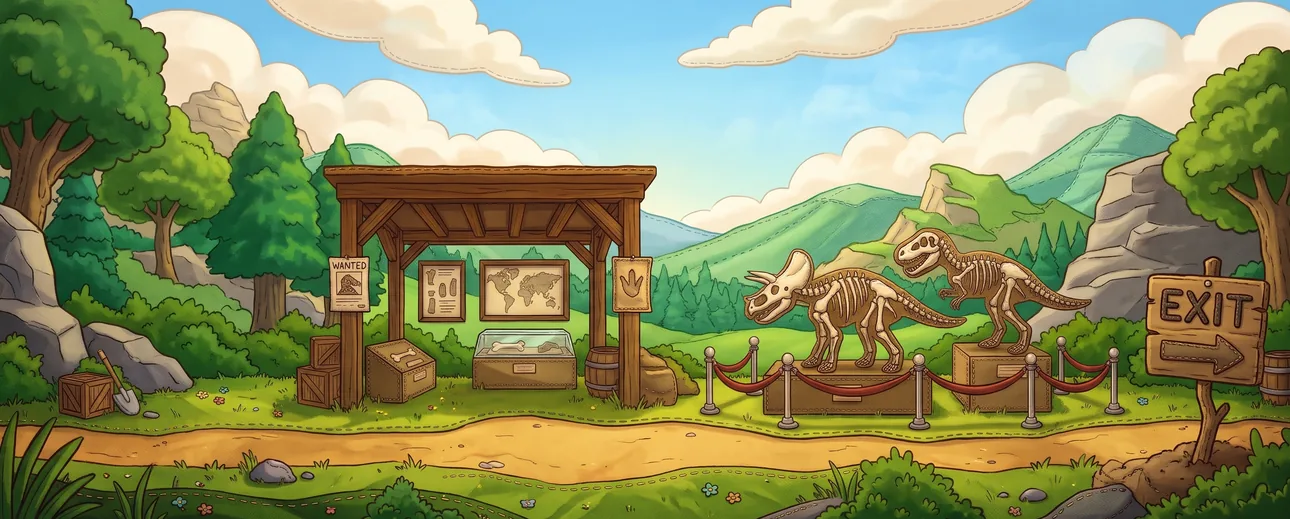
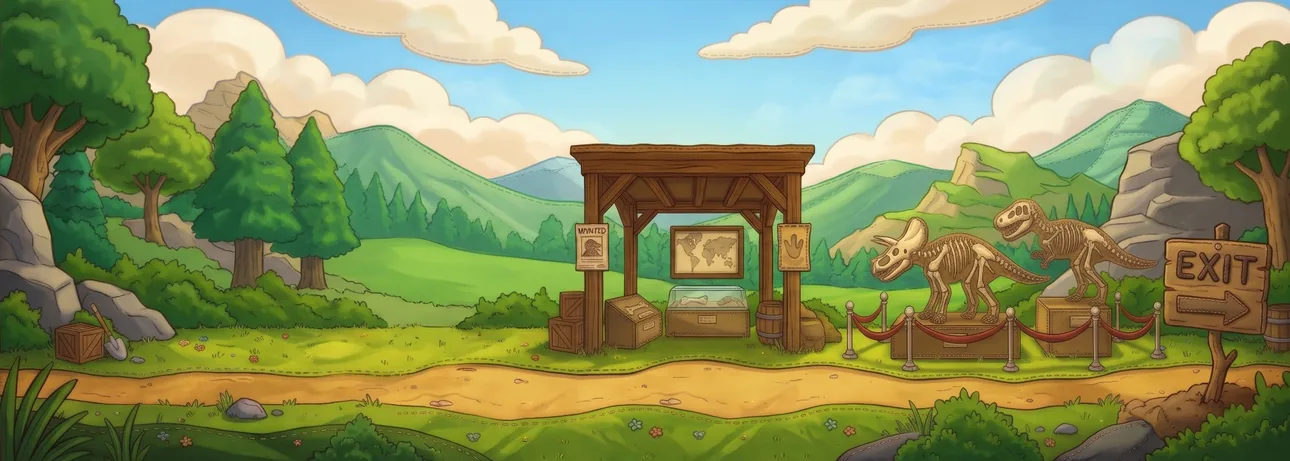
Hall laid out like the mock: new background, desk on the grass, poster on the pavilion
- New open-air hall background (without the desk or host baked in).
- Ticket desk and host sit on the grass at ~18% of the width, a bit
  smaller so the flight fits under the roof.
- The manager poster is the nailed wall version, hanging on the
  pavilion's left post over the WANTED sign of the art; the easel is no
  longer used in the hall.
- Visitors walk along the path.

Claude-Session: https://claude.ai/code/session_01UsRMS2ZzFUiLUPWsUBRzUF

diff --git a/src/ui/mine/HallFloor.tsx b/src/ui/mine/HallFloor.tsx
@@ -24,6 +24,8 @@ import { LevelSign } from './LevelSign';
 
 const VISITOR_SHEETS = ['sprites/visitors/a', 'sprites/visitors/b', 'sprites/visitors/c'] as const;
 const VISITOR_SIZE = 52;
+/** Cuadro del manager en el poste del pabellón. */
+const POSTER_HEIGHT = 40;
 const LAP_MS = 9000;
 
 /** Fracción de la vuelta que tarda en aparecer (al entrar) y en desvanecerse (al llegar a la derecha). */
@@ -70,11 +72,11 @@ function Visitor({ width }: { width: number }) {
 /**
  * Planta alta: la sala de exposición al aire libre (estación "museum" del motor). Los fósiles
  * limpios se convierten aquí en dinero de entradas y recuerdos: el contador muestra las monedas
- * que esperan en taquilla y cada visita cobra una parte (más con más nivel). Distribución, pensada
- * para dejar a la vista el pabellón, los esqueletos y el cartel EXIT del fondo:
- * - abajo a la izquierda, la taquilla con el pterodáctilo (HallHost), que vuela a cada toque;
+ * que esperan en taquilla y cada visita cobra una parte (más con más nivel). Distribución (el fondo
+ * museum/hall se escala con el ancho, así que las posiciones van en % del ancho):
+ * - sobre el pasto, al ~18 %, la taquilla con el pterodáctilo (HallHost), que vuela a cada toque;
  * - arriba, junto a su cabeza, el dinero en taquilla y, durante la venta, su barra;
- * - en el suelo, entre el pabellón y los esqueletos, el cuadro del manager en su tripié;
+ * - el cuadro del manager, con su clavo, en el poste izquierdo del pabellón (~46 %);
  * - arriba a la derecha, sobre el cielo, la tablita de nivel (como en las demás plantas);
  * - los visitantes pasean por delante de todo el piso.
  */
@@ -106,9 +108,9 @@ export function HallFloor({ onUpgrade, onPickManager }: { onUpgrade: () => void;
         }}
       >
         {turbo ? <TurboGlow /> : null}
-        {/* Cuadro del manager sobre un tripié, en el suelo. */}
-        <View style={styles.easel}>
-          <WantedPoster station="museum" variant="easel" active={turbo} onPick={onPickManager} height={60} />
+        {/* Cuadro del manager colgado del poste izquierdo del pabellón (donde el fondo trae su cartel WANTED). */}
+        <View style={styles.poster}>
+          <WantedPoster station="museum" active={turbo} onPick={onPickManager} height={POSTER_HEIGHT} />
         </View>
         {withHost ? (
           <HallHost flights={flights} managed={!!manager} hint={idle} style={styles.host} />
@@ -148,15 +150,16 @@ export function HallFloor({ onUpgrade, onPickManager }: { onUpgrade: () => void;
 
 const styles = StyleSheet.create({
   scene: { flex: 1, alignSelf: 'stretch' },
-  // La taquilla, en la entrada (izquierda), apoyada en el suelo.
-  host: { position: 'absolute', left: -2, bottom: 0 },
+  // La taquilla, sobre el pasto, entre los árboles y el pabellón (como en el boceto).
+  host: { position: 'absolute', left: '18%', bottom: 12 },
   status: { position: 'absolute', left: 8, right: 8, bottom: 6 },
   // Junto a la cabeza del pterodáctilo.
-  till: { position: 'absolute', left: HALL_HOST_WIDTH + 4, top: 6, width: 84, gap: 3 },
+  till: { position: 'absolute', left: '18%', marginLeft: HALL_HOST_WIDTH + 2, top: 6, width: 84, gap: 3 },
   stock: { flexDirection: 'row', alignSelf: 'flex-start', alignItems: 'center', gap: 2, backgroundColor: 'rgba(255,255,255,0.75)', borderRadius: 8, paddingHorizontal: 5 },
-  // En el claro entre el pabellón y los esqueletos.
-  easel: { position: 'absolute', left: '50%', bottom: 0 },
-  walkway: { position: 'absolute', left: -6, right: -6, bottom: 2, height: VISITOR_SIZE },
+  // Centrado en el cartel WANTED del fondo (al 45.7 % del ancho del arte y 53 % de su alto).
+  poster: { position: 'absolute', left: '45.5%', top: 44, width: 0, alignItems: 'center' },
+  // Por el sendero del fondo.
+  walkway: { position: 'absolute', left: -6, right: -6, bottom: 4, height: VISITOR_SIZE },
   visitor: { position: 'absolute', bottom: 0, left: 0 },
   visitorArt: { width: 30, height: 30 },
   // Arriba a la derecha, sobre el cielo: deja ver el cartel EXIT del fondo.

diff --git a/src/ui/mine/HallHost.tsx b/src/ui/mine/HallHost.tsx
@@ -6,18 +6,18 @@ import { TapHint } from './TapHint';
 import { getSheet } from '../spriteSheets';
 import { SpriteSheet } from '../SpriteSheet';
 
-const SIZE = 68;
+const SIZE = 60;
 /** Cuánto sube en el vuelo, en fracciones de su tamaño (hasta rozar el techo de la sala). */
 const LIFT = 0.5;
 /** Mesita de entradas y recuerdos (museum/ticket-desk, 512 × 308). */
-const DESK_W = 96;
+const DESK_W = 84;
 const DESK_H = Math.round((DESK_W * 308) / 512);
 /** Altura de sus pies sobre el suelo: quedan tapados por el frente de la mesita. */
-const FEET = 18;
+const FEET = 15;
 /** Con manager vuela solo cada tantos ms. */
 const AUTO_MS = 10000;
-const DUST_W = 58;
-const DUST_H = 34;
+const DUST_W = 50;
+const DUST_H = 30;
 
 /**
  * Altura del vuelo según el avance (0–1) de la hoja "welcome": en tierra aleteando, sube,
